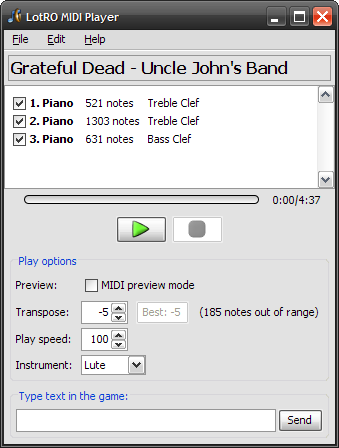
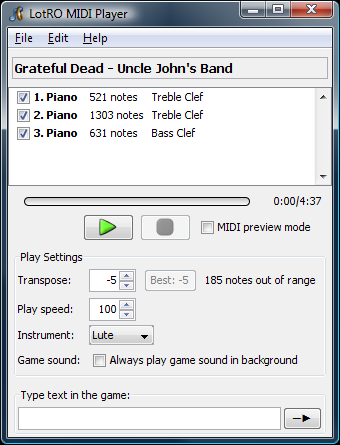
Website update for 1.1.0.1

diff --git a/Website/index.html b/Website/index.html
@@ -3,69 +3,23 @@
 <head>
 <meta http-equiv="Content-Type" content="text/html; charset=iso-8859-1" />
 <title>LotRO MIDI Player</title>
-<style>
-body {
-	font-family: Calibri, Arial, Helvetica, sans-serif;
-	color: white;
-	background-color: black;
-	line-height: 1.3em;
-	padding: 0px;
-	margin: 0px;
-	text-align: center;
-}
-
-div#mainBody {
-	width: 800px;
-	padding: 4px;
-	text-align: left;
-	background-image:url('header.png');
-	background-repeat:no-repeat;
-	padding-top:200px;
-}
-
-h1 {
-	margin: 0px;
-	padding: 0px;
-	text-align: center;
-}
-
-h2 {
-	font-size: 2.2em;
-	border-bottom: 1px solid #B7D3F5;
-	color: #B7D3F5;
-	margin-bottom: 2px;
-	margin-bottom: 8px;
-	padding-bottom: 1px;
-}
-
-h3 {
-	color: #B7D3F5;
-	margin-bottom: 2px;
-}
-
-ul {
-	margin-top: 0px;
-}
-
-a {
-	color: #DFDFFF;
-}
-
-a:hover, a:active {
-	color: #F3E0AA;
-}
-
-div#copyright {
-	font-size: smaller;
-	line-height: 1em;
-	text-align: center;
-	margin-bottom: 10px;
-}
-</style>
+<link href="style.css" rel="stylesheet" type="text/css">
+<script type="text/javascript">
+downloadOn = new Image(416, 56);
+downloadOn.src = "download_on.png";
+</script>
 </head>
 
 <body><center>
 <div id="mainBody">
+
+<h2>Features</h2>
+<ul>
+<li>Play MIDI songs with the Lord of the Rings online <a href="http://lorebook.lotro.com/wiki/Mechanics:Player_Music_System">Player Music System</a>.</li>
+<li>Export MIDI songs into <a href="http://lorebook.lotro.com/wiki/Mechanics:ABC_Notation">ABC files</a> to share with others, or make multi-part versions of the original song to play with a group of friends.</li>
+<li>Connect an external MIDI piano as an alternative to using your computer keyboard.</li>
+<li>No configuration files are necessary! LotRO MIDI Player automatically detects your key mappings.</li>
+</ul>
 
 <h2>How to download</h2>
 <h3>Step 1: Install Java</h3>
@@ -73,13 +27,16 @@ div#copyright {
 LotRO MIDI Player uses Java Web Start.  You must have Java 6.0 or greater installed.
 
 <h3>Step 2: Download using Java Web Start</h3>
-<a href="lotromusic.jnlp">Download and Install LotRO MIDI Player</a><br />
-Clicking the link to download, install, and run LotRO MIDI Player.  The program is signed by me (Digero).  It will put an icon on your desktop so you don't have to come back to this web site each time you want to use the program.<br />
+<a href="lotromusic.jnlp.php"><img src="download.png" onmouseover="this.src='download_on.png'" onmouseout="this.src='download.png'" border="0" title="Download and Install LotRO MIDI Player" alt="Download and Install LotRO MIDI Player" /></a><br />
+Current version: 1.1.0.1. <a href="changelog.html">See version history</a>.<br />
+Click the link to download, install, and run LotRO MIDI Player.  The program is signed by me (Digero).  It will put an icon on your desktop so you don't have to come back to this web site each time you want to use the program.<br />
 Note: if you'd like a better-looking icon for your desktop shortcut, you can download <a href="lotromusic.ico">lotromusic.ico</a> and set it as the shortcut's icon.
 
 <h3>Step 3: Configure LotRO</h3>
 You must have a keyboard key mapped to each of the notes in the game.  It tends to work best if none of the keys are mapped with Shift, Ctrl, or Alt modifiers. LotRO MIDI player will automatically determine your key mappings; however, if you change your keyboard mapping while the program is running, you must select "Reload Key Mappings" from the Edit menu.
 
+<h3>Give feedback</h3>
+Visit the <a href="http://forums.lotro.com/showthread.php?t=121331">discussion thread</a> on the LotRO Forums for support or to give feedback.
 
 <h2>How to Use</h2>
 You can start the program either by clicking the link above or double-clicking the shortcut on your desktop.<br />
@@ -87,27 +44,42 @@ You MUST be in music mode when you press play or bad things will happen! Do not 
 
 <h3>Opening songs</h3>
 The easiest way to open a MIDI file is to DRAG and DROP the file onto the LotRO MIDI Player window.  You can also open a MIDI file from the file menu.
-<img src="screenshot.png" style="float:right; padding:6px;" />
-
-<h3>Track List</h3>
-Uncheck tracks that you don't want to be played. The note count lists how many notes that particular instrument plays for the entire piece.
-
-<h3>Local preview mode</h3> When this is enabled, the song will be played using the computer's MIDI synthesizer rather than in-game.  Use this to help figure out which tracks should be turned on and off for complicated songs.  Note: If you can't hear any music when Local Preview Mode is enabled, try turning up the "MIDI Synth" volume in the system volume control panel.  Windows Media Player seems to set the MIDI Synth volume to 0 if you pause a MIDI file.
-
-<h3>Transpose</h3> Set the number of half-steps to transpose the notes in the song.  This will help move the song to fit within the LotRO instruments' 3 octaves of range.  Any notes that still fall outside of the instrument's range will be automatically transposed up or down by a full octave so that they can still be played.
-
-<h3>Type text in the game</h3>
-Since LotRO MIDI Player works by simulating key presses in the game, you cannot type in the chat bar in the game.  To work around this, you can type using this text box.  It will safely type the message into the game for you when you press Enter or click Send.
 
 <h3>Tips</h3>
 <ul>
 <li>Try to find MIDI files that were arranged for the piano or guitar. These sound the best when played on the lute.</li>
 <li>If the game gives you a "Too many requests" error, try slowing the tempo or unchecking some of the tracks.</li>
-<li>Stringed instruments (Lute, Harp, Theorbo) sound the best.  Wind instruments (Flute, Clarinet, Horn, Bagpipe) sound decent, but I still need to do some more work to fully support them. Drums and Cowbell are NOT supported.</li>
+<li>Stringed instruments (Lute, Harp, Theorbo) sound the best.  Wind instruments (Flute, Clarinet, Horn, Bagpipe) sound decent. Drums and Cowbell are NOT supported.</li>
 </ul>
+<img src="screenshot.png" style="float:right; padding:6px;" />
 
-<hr />
-<div style="text-align:right">Created by Digero of Landroval<br /><img src="email.png" /></div><br />
+<h3>Track List</h3>
+Uncheck tracks that you don't want to be played. The note count lists how many notes that particular instrument plays for the entire piece.
+
+<h3>MIDI preview mode</h3>
+When this is enabled, the song will be played using the computer's MIDI synthesizer rather than in-game.  Use this to help figure out which tracks should be turned on and off for complicated songs.  Note: If you can't hear any music when Local Preview Mode is enabled, try turning up the "MIDI Synth" volume in the system volume control panel.  Windows Media Player seems to set the MIDI Synth volume to 0 if you use it to play a MIDI file.
+
+<h3>Transpose</h3>
+Set the number of half-steps to transpose the notes in the song.  This will help move the song to fit within the LotRO instruments' three-octave of range.  Any notes that still fall outside of the instrument's range will be automatically transposed up or down by a full octave so that they can still be played.
+
+<h3>Instrument</h3>
+Select which instrument you'll be using in-game, or for which instrument the ABC export is intended.  This will make sure that the "breath" sound isn't used for the horn and clarinet.
+
+<h3>Type text in the game</h3>
+Since LotRO MIDI Player works by simulating key presses in the game, you cannot type in the chat bar in the game.  To work around this, you can type using this text box.  It will safely type the message into the game for you when you press Enter or click Send.
+
+<h3>Exporting to ABC</h3>
+To export to an ABC file, choose the option from the File menu.  If you want to make a multi-part ABC arrangement, simply export the song multiple times with different tracks turned on.  You may want to change the title between exports to add information about the part (e.g. " - Lute").
+
+<h3>Connect MIDI Piano</h3>
+<img src="mididevice_screenshot.png" style="float:left; padding: 2px 10px 6px 2px;" width="311" height="222" />
+Select "Connect MIDI Piano..." from the main window's File menu.<br />
+<br />
+If your device isn't listed, make sure it's connected and turned on.  If clicking refresh doesn't make the device show up, try restarting LotRO MIDI Player.<br />
+
+
+<br clear="all" />
+<div id="footer">Created by Digero of Landroval<br /><img src="email.png" /></div><br />
 <div id="copyright">
 	&copy; 2008 acasylum.com<br />
 	The Lord of the Rings Online&trade;: Shadows of Angmar&trade; is a trademark of Turbine, Inc.<br />

diff --git a/Website/changelog.html b/Website/changelog.html
@@ -1,0 +1,51 @@
+<!DOCTYPE html PUBLIC "-//W3C//DTD XHTML 1.0 Transitional//EN" "http://www.w3.org/TR/xhtml1/DTD/xhtml1-transitional.dtd">
+<html xmlns="http://www.w3.org/1999/xhtml">
+<head>
+<meta http-equiv="Content-Type" content="text/html; charset=iso-8859-1" />
+<title>LotRO MIDI Player Change Log</title>
+<link href="style.css" rel="stylesheet" type="text/css">
+</head>
+
+<body><center>
+<div id="mainBody">
+
+<h2>Version History</h2>
+See the <a href="index.html">LotRO MIDI Player page</a> for more information.
+
+<h3>Version 1.1.0.1</h3>
+<ul>
+<li>Export to ABC respects the currently selected instrument's lowest-playable note.</li>
+<li>Export to ABC now shouldn't allow chords with more than 6 notes.</li>
+<li>Fixed the occasional "unexpected token" error in some exported ABC files.</li>
+<li>The name of the exported ABC file saves on a per-song basis.</li>
+<li>Added an "Always play game sound in background" option. With this enabled, LotRO will always think 
+	it's the active window, even if another window has focus. <i>Note: this option will cause your computer 
+	to feel sluggish when LotRO is running in the background.</i></li>
+<li>The program now attempts to use the key mapping without Ctrl/Alt modifiers if there is an option.</li>
+<li>Fixed a bug when playing simultaneous notes with Ctrl/Alt modifiers that would cause the wrong note to be played.</li>
+</ul>
+
+<h3>Version 1.1.0.0</h3>
+<ul>
+<li>Added the ability to export to ABC files.</li>
+<li>Added the ability to connect an external MIDI piano.</li>
+<li>Added an instrument drop-down.</li>
+</ul>
+
+<h3>Version 1.0.0.0</h3>
+<ul>
+<li>Initial release.</li>
+</ul>
+
+<br clear="all" />
+<hr />
+<div style="text-align:right">Created by Digero of Landroval<br /><img src="email.png" /></div><br />
+<div id="copyright">
+	&copy; 2008 acasylum.com<br />
+	The Lord of the Rings Online&trade;: Shadows of Angmar&trade; is a trademark of Turbine, Inc.<br />
+	This site is not affiliated with nor endorsed by Turbine, Inc.<br>
+	Visit the <a href="http://www.lotro.com/">Lord of the Rings Online&trade;</a> home page.
+</div>
+</div>
+</center></body>
+</html>
